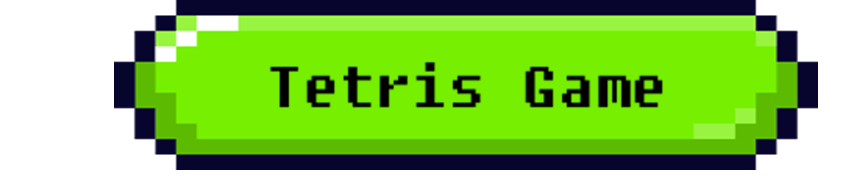
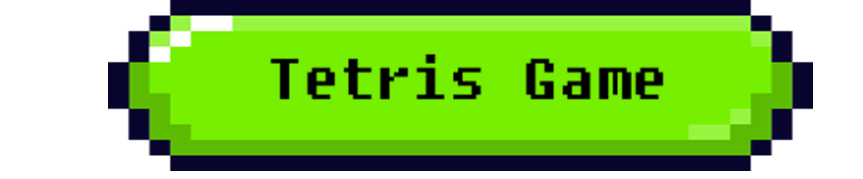
💄 game 버튼 css 수정

Changed region(s): [[0.1206, 0.0, 0.9652, 0.9777], [0.3016, 0.3073, 0.5731, 0.5866], [0.6032, 0.3073, 0.7842, 0.5866]]

diff --git a/pyloop.css b/pyloop.css
@@ -6,10 +6,17 @@
     font-style: normal;
 }
 
+@font-face {
+    font-family: 'DungGeunMo';
+    src: url('https://fastly.jsdelivr.net/gh/projectnoonnu/noonfonts_six@1.2/DungGeunMo.woff') format('woff');
+    font-weight: normal;
+    font-style: normal;
+}
+
 /* 폰트 적용 */
 body {
     color: #ffff;
-    font-family: 'GowunBatang-Regular', Arial, sans-serif; /* GowunBatang-Regular 폰트를 우선으로 사용 */
+    font-family:  'DungGeunMo', Arial, sans-serif; /* GowunBatang-Regular 폰트를 우선으로 사용 */
     background: url('img/008.png') no-repeat center center; /* 배경 이미지 적용 */
     background-size: 1920px 1080px; /* 배경 이미지를 1920x1080으로 고정 */
     margin: 0;
@@ -20,14 +27,44 @@ body {
     align-items: center;
     height: 100vh; /* 화면 전체를 사용 */
     flex-direction: column;
+    position: relative;
+    overflow: hidden; 
 }
 
+/* 배경 어둡게 처리 */
+body::before {
+    content: ""; /* 빈 콘텐츠 생성 */
+    position: absolute;
+    top: 0;
+    left: 0;
+    width: 100%;
+    height: 100%;
+    background: rgba(0, 0, 0, 0.3); /* 반투명 검정 오버레이 (30% 불투명도) */
+    z-index: 1; /* 오버레이를 배경 위에 위치시키되 콘텐츠 아래에 두기 */
+    pointer-events: none; /* 오버레이가 클릭 이벤트를 방해하지 않도록 설정 */
+}
+
+/* 텍스트 컨테이너 */
+.text-container {
+    position: relative; /* 레이아웃 조정 */
+    z-index: 2; /* 텍스트가 오버레이 위에 표시되도록 설정 */
+}
+
+/* about-text 스타일 */
+.about-text {
+    position: relative;
+    z-index: 4; /* about-text 요소를 다른 모든 요소 위에 표시 */
+    color: white;
+    font-size: 15px;
+    text-align: center;
+}
 
 /* 로고 스타일 */
 .logo-container {
     position: absolute;
     top: 20px;
     left: 40px;
+    z-index: 3; /* 로고가 오버레이 위에 표시되도록 설정 */
 }
 
 .logo {
@@ -43,4 +80,5 @@ body {
     text-align: center;
     font-size: 14px;
     color: #ffff;
+    z-index: 3; /* 푸터가 오버레이 위에 표시되도록 설정 */
 }

diff --git a/game.css b/game.css
@@ -1,7 +1,13 @@
+@font-face {
+  font-family: 'DungGeunMo';
+  src: url('https://fastly.jsdelivr.net/gh/projectnoonnu/noonfonts_six@1.2/DungGeunMo.woff') format('woff');
+  font-weight: normal;
+  font-style: normal;
+}
 body {
   margin: 0;
   padding: 0;
-  font-family: Arial, sans-serif;
+  font-family: 'DungGeunMo', sans-serif;
   color: white; /* 글자 색상 */
   background: url('img/008.png') no-repeat center center;
   background-size: 1920px 1080px;

diff --git a/game.html b/game.html
@@ -25,7 +25,7 @@
     <!-- 2열: Brick, Zet, Tetris -->
     <img src="img/brick.png" alt="Brick Game" class="game-button" id="brickButton">
     <img src="img/zet.png" alt="Zet Game" class="game-button" id="zetButton">
-    <img src="img/Tetris.png" alt="Tetris Game" class="game-button" id="tetrisButton">
+    <img src="img/tetris.png" alt="Tetris Game" class="game-button" id="tetrisButton">
   </div>
   
 

diff --git a/style.css b/style.css
@@ -15,7 +15,7 @@
 body {
     margin: 0;
     padding: 0;
-    font-family: Arial, sans-serif;
+    font-family: 'DungGeunMo', sans-serif;
     color: white; /* 글자 색상 */
     background: url('img/008.png') no-repeat center center;
     background-size: 1920px 1080px;
